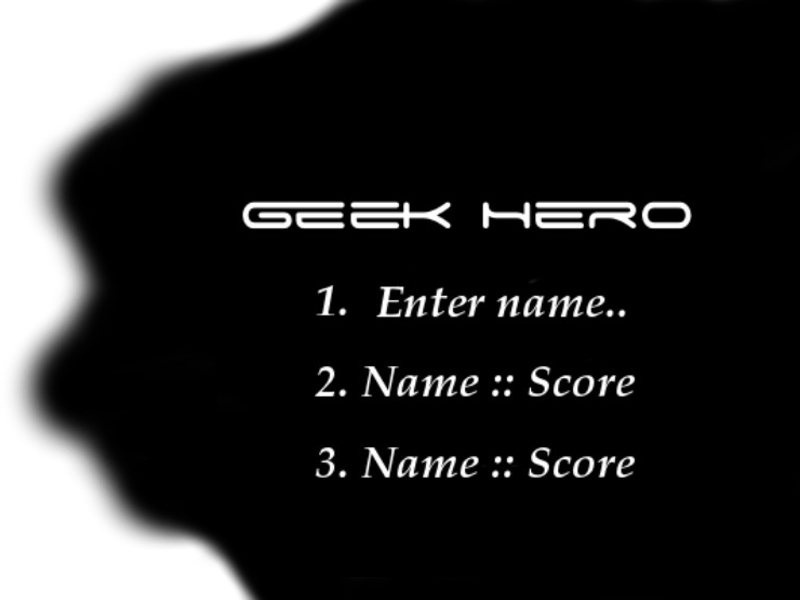
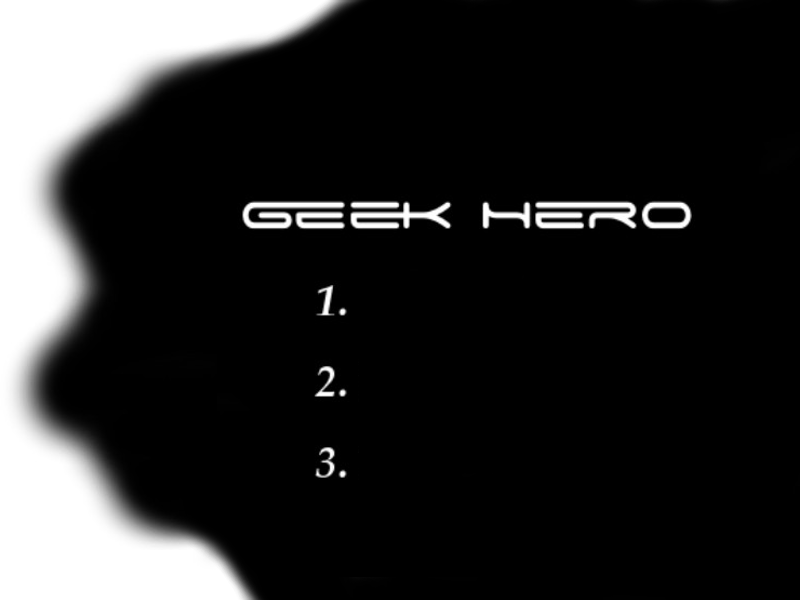
Highscore now displays properly in the meny section

Changed region(s): [[0.4375, 0.75, 0.8125, 0.81], [0.4688, 0.48, 0.7812, 0.54], [0.4375, 0.6, 0.8125, 0.66]]

diff --git a/src/menu_state.cc b/src/menu_state.cc
@@ -5,9 +5,12 @@
  *      Author: alest170
  */
 
+#include <SDL2/SDL.h>
 
 #include <menu_state.h>
-#include <SDL2/SDL.h>
+#include <highscore_handler.h>
+
+
 
 //Handles the return key for the update function.
 MenuState::StateCommand MenuState::return_handler()
@@ -32,36 +35,37 @@ MenuState::StateCommand MenuState::return_handler()
 MenuState::StateCommand MenuState::update(
     std::list<MenuState::GameInput> const& input)
 {
-  background_src_ = {backgrounds_.at (current_) };
+  background_src_ =
+  { backgrounds_.at (current_)};
 
   for (GameInput i : input)
   {
     switch (i)
     {
       case GameInput::kUp:
-        if (!keydown_)
-        {
+      if (!keydown_)
+      {
         selected_ = MenuPointer ( ((int ( selected_ ) + 2) % 3) );
         keydown_ = true;
         break;
-        }
-        break;
+      }
+      break;
       case GameInput::kDown:
-        if (!keydown_)
-        {
+      if (!keydown_)
+      {
         selected_ = MenuPointer ( ((int ( selected_ ) + 1) % 3) );
         keydown_ = true;
         break;
-        }
-        break;
+      }
+      break;
       case GameInput::kReturn:
-        return return_handler ();
-        break;
+      return return_handler ();
+      break;
       case GameInput::kEscape:
-        current_ = MenuDirectory::kRoot;
-        break;
+      current_ = MenuDirectory::kRoot;
+      break;
       default:
-        break;
+      break;
     }
   }
 
@@ -77,24 +81,36 @@ MenuState::StateCommand MenuState::update(
 std::list<Sprite const*> MenuState::get_sprites() const
 {
   std::list<Sprite const*> empty;
-  std::list<Sprite const*> CoffeVector
-  {
-    &coffe_cup_
-  };
+  std::list<Sprite const*> CoffeVector { &coffe_cup_ };
 
-  if (current_ == MenuDirectory::kRoot)
+  if( current_ == MenuDirectory::kRoot )
   {
     return CoffeVector;
   }
   else
   {
-  return empty;
+    return empty;
   }
 }
 
 std::list<TextTexture> MenuState::get_texts() const
 {
+
+  if( current_ == MenuDirectory::kHighscore )
+  {
+    Highscore scoreboard_;
+
+    TextTexture first_place_ { scoreboard_.get_highscore ().at ( 0 ), 374, 280 };
+    TextTexture second_place_ { scoreboard_.get_highscore ().at ( 1 ), 374, 361 };
+    TextTexture third_place_ { scoreboard_.get_highscore ().at ( 2 ), 374, 442 };
+
+    std::list<TextTexture> scores_ { first_place_, second_place_, third_place_ };
+
+    return scores_;
+  }
+
   std::list<TextTexture> empty;
+
   return empty;
 }
 

diff --git a/src/game_engine.cc b/src/game_engine.cc
@@ -65,14 +65,13 @@ void GameEngine::handle_state_command(AbstractGameState::StateCommand cmd)
      active_state_ = &is_;
       break;
     case StateCommand::kWin:
-      active_state_ = go_(EndState::EndDirectory::kFell, ps_.get_score());
+      active_state_ = go_(EndState::EndDirectory::kWin, ps_.get_score());
       break;
     case StateCommand::kKilled:
-      go_.set_end_type("kKilled");
-      active_state_ = &go_;
-      // TODO: Change variable to see what kind
+      active_state_ = go_(EndState::EndDirectory::kKilled, ps_.get_score());
       break;
     case StateCommand::kFell:
+      active_state_ = go_(EndState::EndDirectory::kFell, ps_.get_score());
       go_.set_end_type("kFell");
       active_state_ = &go_;
       break;

diff --git a/src/highscore_handler.cc b/src/highscore_handler.cc
@@ -13,6 +13,7 @@
 #include <time.h>
 #include <sstream>
 
+
  void Highscore::add_score(int points_)
  {
    score_ = points_;
